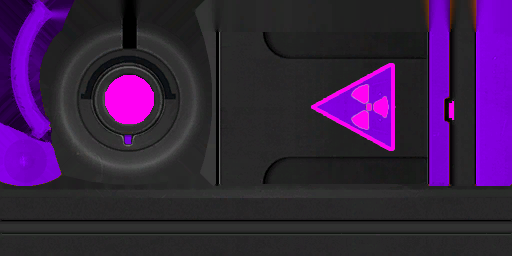
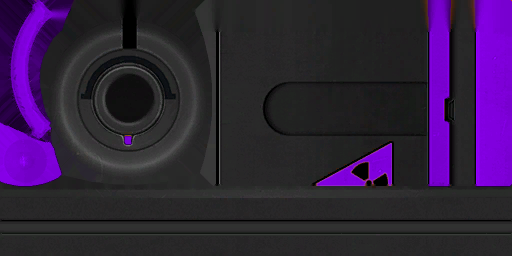
Custom texture normal illum spec

diff --git a/InfinityBattery/MonoBehaviours/InfinityBehaviour .cs b/InfinityBattery/MonoBehaviours/InfinityBehaviour .cs
@@ -1,17 +1,11 @@
-using System;
-using System.Collections.Generic;
-using System.Linq;
-using System.Text;
-using System.Threading.Tasks;
-using UnityEngine;
+using UnityEngine;
 
 namespace InfinityBattery.MonoBehaviours
 {
     internal class InfinityBehaviour : MonoBehaviour
     {
         Battery battery;
-        MeshRenderer renderer;
-        SkinnedMeshRenderer skinnedRenderer;
+        Renderer renderer;
         EnergyMixin energyMixin;
 
         private float currentStrength = 0;
@@ -21,38 +15,19 @@ namespace InfinityBattery.MonoBehaviours
 
         public void Awake()
         {
-            renderer = gameObject.GetComponentInChildren<MeshRenderer>();
-
-            if(renderer != null)
-            {
-                renderer.material.shader = Shader.Find("MarmosetUBER");
-                renderer.material.EnableKeyword("_EnableGlow");
-                renderer.material.SetColor("_GlowColor", Color.white);
-                renderer.material.SetTexture(ShaderPropertyID._Illum, Main.Illum);
-            }
-
-            skinnedRenderer = gameObject.GetComponentInChildren<SkinnedMeshRenderer>();
-
-            if(skinnedRenderer != null)
-            {
-                skinnedRenderer.material.shader = Shader.Find("MarmosetUBER");
-                skinnedRenderer.material.EnableKeyword("_EnableGlow");
-                skinnedRenderer.material.SetTexture(ShaderPropertyID._Illum, Main.Illum);
-                skinnedRenderer.material.SetColor("_GlowColor", Color.white);
-            }
-
+            renderer = gameObject.GetComponentInChildren<Renderer>();
             battery = gameObject.GetComponent<Battery>();
             energyMixin = gameObject.GetComponentInParent<EnergyMixin>();
         }
 
         public void Update()
         {
-            if(battery != null)
+            if (battery != null)
             {
                 battery.charge = battery.capacity;
             }
 
-            if(energyMixin != null)
+            if (energyMixin != null)
             {
                 energyMixin.AddEnergy(energyMixin.capacity - energyMixin.charge);
             }
@@ -62,7 +37,7 @@ namespace InfinityBattery.MonoBehaviours
             if (timer > changeTime)
             {
                 currentStrength = nextStrength;
-                nextStrength = currentStrength == 2? 0: 2;
+                nextStrength = currentStrength == 2 ? 0 : 2;
 
                 timer = 0.0f;
             }
@@ -72,13 +47,6 @@ namespace InfinityBattery.MonoBehaviours
                 renderer.material.SetFloat(ShaderPropertyID._GlowStrength, Mathf.Lerp(currentStrength, nextStrength, timer / changeTime));
                 renderer.material.SetFloat(ShaderPropertyID._GlowStrengthNight, Mathf.Lerp(currentStrength, nextStrength, timer / changeTime));
             }
-
-            if (skinnedRenderer != null)
-            {
-                skinnedRenderer.material.SetFloat(ShaderPropertyID._GlowStrength, Mathf.Lerp(currentStrength, nextStrength, timer / changeTime));
-                skinnedRenderer.material.SetFloat(ShaderPropertyID._GlowStrengthNight, Mathf.Lerp(currentStrength, nextStrength, timer / changeTime));
-            }
-
         }
     }
 }

diff --git a/InfinityPowerCell/MonoBehaviours/InfinityBehaviour .cs b/InfinityPowerCell/MonoBehaviours/InfinityBehaviour .cs
@@ -5,8 +5,7 @@ namespace InfinityPowerCell.MonoBehaviours
     internal class InfinityBehaviour : MonoBehaviour
     {
         Battery battery;
-        MeshRenderer renderer;
-        SkinnedMeshRenderer skinnedRenderer;
+        Renderer renderer;
         EnergyMixin energyMixin;
 
         private float currentStrength = 0;
@@ -16,26 +15,7 @@ namespace InfinityPowerCell.MonoBehaviours
 
         public void Awake()
         {
-            renderer = gameObject.GetComponentInChildren<MeshRenderer>();
-
-            if(renderer != null)
-            {
-                renderer.material.shader = Shader.Find("MarmosetUBER");
-                renderer.material.EnableKeyword("_EnableGlow");
-                renderer.material.SetColor("_GlowColor", Color.white);
-                renderer.material.SetTexture(ShaderPropertyID._Illum, Main.Illum);
-            }
-
-            skinnedRenderer = gameObject.GetComponentInChildren<SkinnedMeshRenderer>();
-
-            if(skinnedRenderer != null)
-            {
-                skinnedRenderer.material.shader = Shader.Find("MarmosetUBER");
-                skinnedRenderer.material.EnableKeyword("_EnableGlow");
-                skinnedRenderer.material.SetTexture(ShaderPropertyID._Illum, Main.Illum);
-                skinnedRenderer.material.SetColor("_GlowColor", Color.white);
-            }
-
+            renderer = gameObject.GetComponentInChildren<Renderer>();
             battery = gameObject.GetComponent<Battery>();
             energyMixin = gameObject.GetComponentInParent<EnergyMixin>();
         }
@@ -67,13 +47,6 @@ namespace InfinityPowerCell.MonoBehaviours
                 renderer.material.SetFloat(ShaderPropertyID._GlowStrength, Mathf.Lerp(currentStrength, nextStrength, timer / changeTime));
                 renderer.material.SetFloat(ShaderPropertyID._GlowStrengthNight, Mathf.Lerp(currentStrength, nextStrength, timer / changeTime));
             }
-
-            if (skinnedRenderer != null)
-            {
-                skinnedRenderer.material.SetFloat(ShaderPropertyID._GlowStrength, Mathf.Lerp(currentStrength, nextStrength, timer / changeTime));
-                skinnedRenderer.material.SetFloat(ShaderPropertyID._GlowStrengthNight, Mathf.Lerp(currentStrength, nextStrength, timer / changeTime));
-            }
-
         }
     }
 }

diff --git a/InfinityPowerCell/Main.cs b/InfinityPowerCell/Main.cs
@@ -20,10 +20,17 @@ namespace InfinityPowerCell
         private static string AssetsFolder = Path.Combine(ModPath, "Assets");
 
         public static Sprite Icon = ImageUtils.LoadSpriteFromFile(Path.Combine(Main.AssetsFolder, "icon.png"));
-        public static Texture2D Skin => ImageUtils.LoadTextureFromFile(Path.Combine(Main.AssetsFolder, "skin.png"));
+
+        public static Texture2D Texture => ImageUtils.LoadTextureFromFile(Path.Combine(Main.AssetsFolder, "skin.png"));
+
         public static Texture2D Illum => ImageUtils.LoadTextureFromFile(Path.Combine(Main.AssetsFolder, "skin_illum.png"));
 
+        public static Texture2D Normal => ImageUtils.LoadTextureFromFile(Path.Combine(Main.AssetsFolder, "skin_normal.png"));
+
+        public static Texture2D Spec => ImageUtils.LoadTextureFromFile(Path.Combine(Main.AssetsFolder, "skin_spec.png"));
+
         private static InfinityPowerCellItem InfinityBatteryItem = new InfinityPowerCellItem();
+
         public static CbItemPack InfinityCellPack { get; private set; }
 
         [QModPatch]

diff --git a/InfinityBattery/Main.cs b/InfinityBattery/Main.cs
@@ -20,8 +20,12 @@ namespace InfinityBattery
         private static string AssetsFolder = Path.Combine(ModPath, "Assets");
 
         public static Sprite Icon = ImageUtils.LoadSpriteFromFile(Path.Combine(Main.AssetsFolder, "icon.png"));
-        public static Texture2D Skin => ImageUtils.LoadTextureFromFile(Path.Combine(Main.AssetsFolder, "skin.png"));
+        public static Texture2D Texture => ImageUtils.LoadTextureFromFile(Path.Combine(Main.AssetsFolder, "skin.png"));
         public static Texture2D Illum => ImageUtils.LoadTextureFromFile(Path.Combine(Main.AssetsFolder, "skin_illum.png"));
+
+        public static Texture2D Normal => ImageUtils.LoadTextureFromFile(Path.Combine(Main.AssetsFolder, "skin_normal.png"));
+
+        public static Texture2D Spec => ImageUtils.LoadTextureFromFile(Path.Combine(Main.AssetsFolder, "skin_spec.png"));
 
         private static InfinityBatteryItem InfinityBatteryItem = new InfinityBatteryItem();
         public static CbItemPack InfinityPack { get; private set; }

diff --git a/InfinityPowerCell/Prefabs/InfinityPowerCellItem.cs b/InfinityPowerCell/Prefabs/InfinityPowerCellItem.cs
@@ -24,7 +24,17 @@ namespace InfinityPowerCell.Prefabs
 
         public override Sprite CustomIcon => Main.Icon;
 
-        public override Texture2D CustomSkin => Main.Skin;
+        public override Texture2D CustomTexture => Main.Texture;
+
+        public override Texture2D CustomIllumMap => Main.Illum;
+
+        public override float CustomIllumStrength => 1f;
+
+        public override bool UseIonModels => true;
+
+        public override Texture2D CustomNormalMap => Main.Normal;
+
+        public override Texture2D CustomSpecMap => Main.Spec;
 
         public override bool ExcludeFromChargers => true;
 

diff --git a/InfinityBattery/Prefabs/InfinityBatteryItem.cs b/InfinityBattery/Prefabs/InfinityBatteryItem.cs
@@ -27,7 +27,17 @@ namespace InfinityBattery.Prefabs
 
         public override Sprite CustomIcon => Main.Icon;
 
-        public override Texture2D CustomSkin => Main.Skin;
+        public override Texture2D CustomTexture => Main.Texture;
+
+        public override Texture2D CustomIllumMap => Main.Illum;
+
+        public override float CustomIllumStrength => 1f;
+
+        public override bool UseIonModels => true;
+
+        public override Texture2D CustomNormalMap => Main.Normal;
+
+        public override Texture2D CustomSpecMap => Main.Spec;
 
         public override bool ExcludeFromChargers => true;
 
